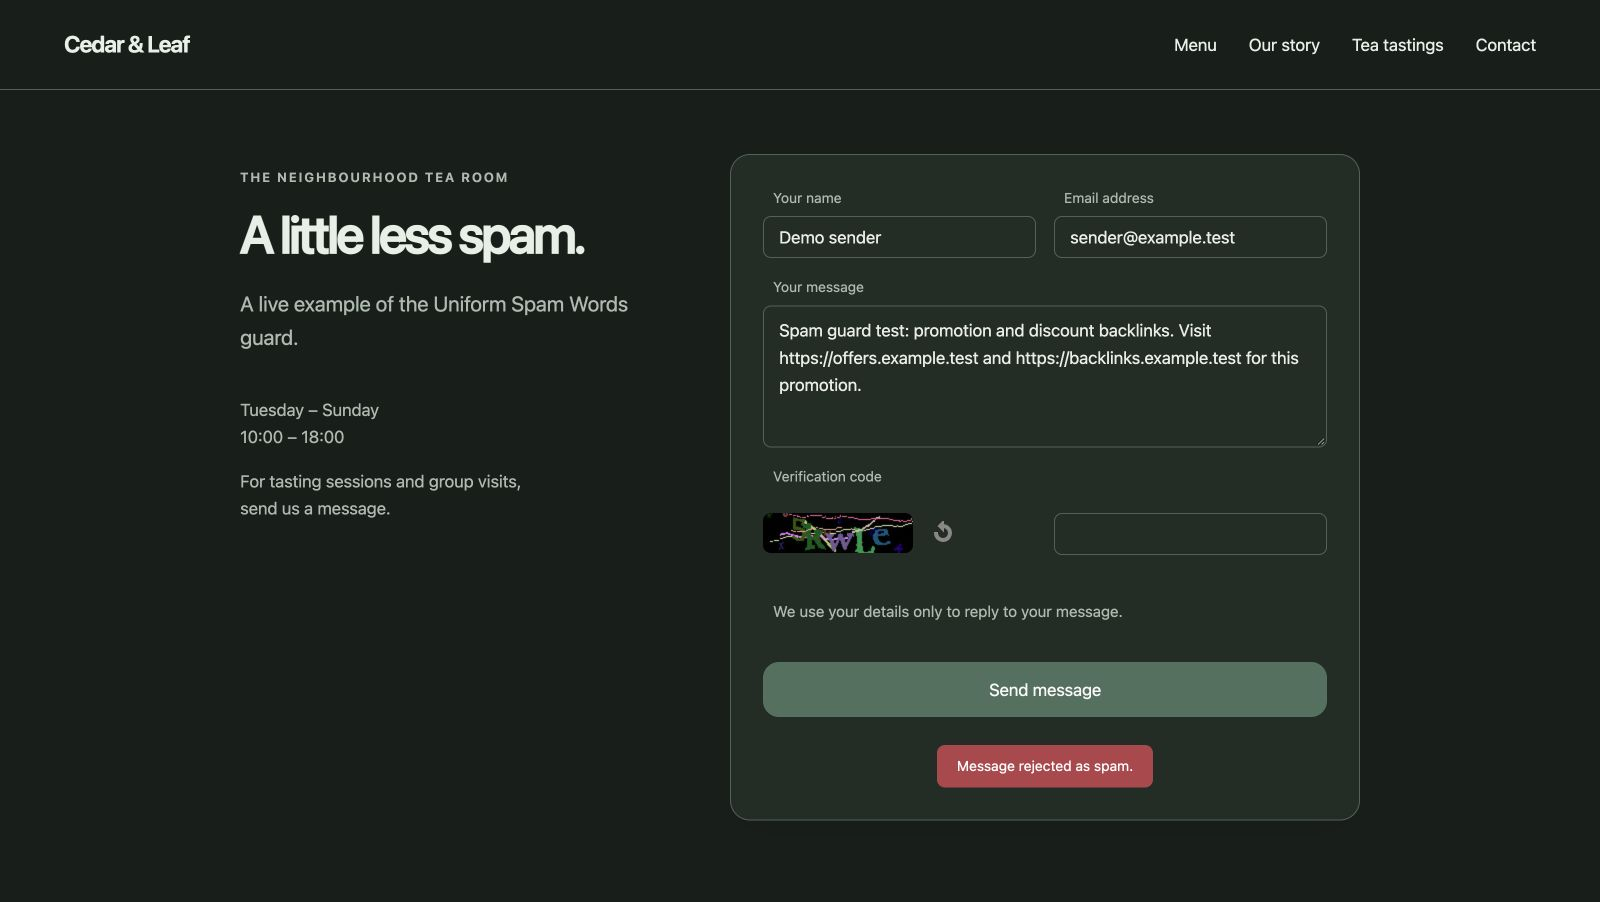
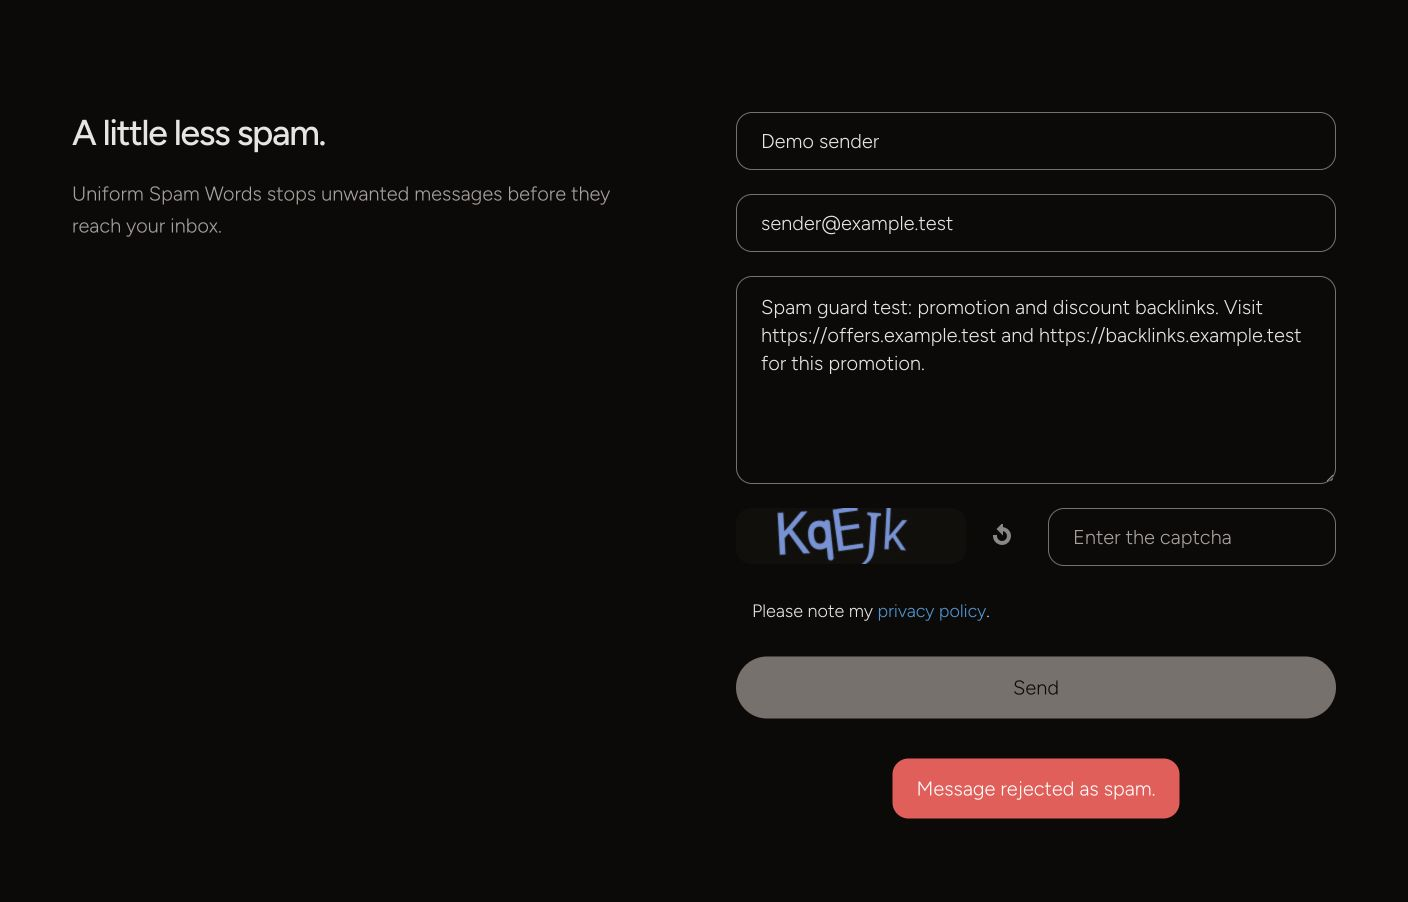
docs: refine screenshots and remove Panel sidebar

diff --git a/README.md b/README.md
@@ -396,8 +396,10 @@ This plugin is licensed under the [MIT License](LICENSE)
 
 ## Screenshots
 
-Screenshots use fictional Cedar & Leaf sample content at 1600 × 902 pixels. The main image uses the light theme.
+Screenshots use sample content at 1408 × 902 pixels. Panel views are cropped to the content area. The main image uses the light theme.
 
 | View | Light | Dark |
 | --- | --- | --- |
 | Overview | [Light](screenshot.jpg) | [Dark](screenshot-dark.jpg) |
+
+The spam rejection previews use the contact form with neutral T-Room styling.
